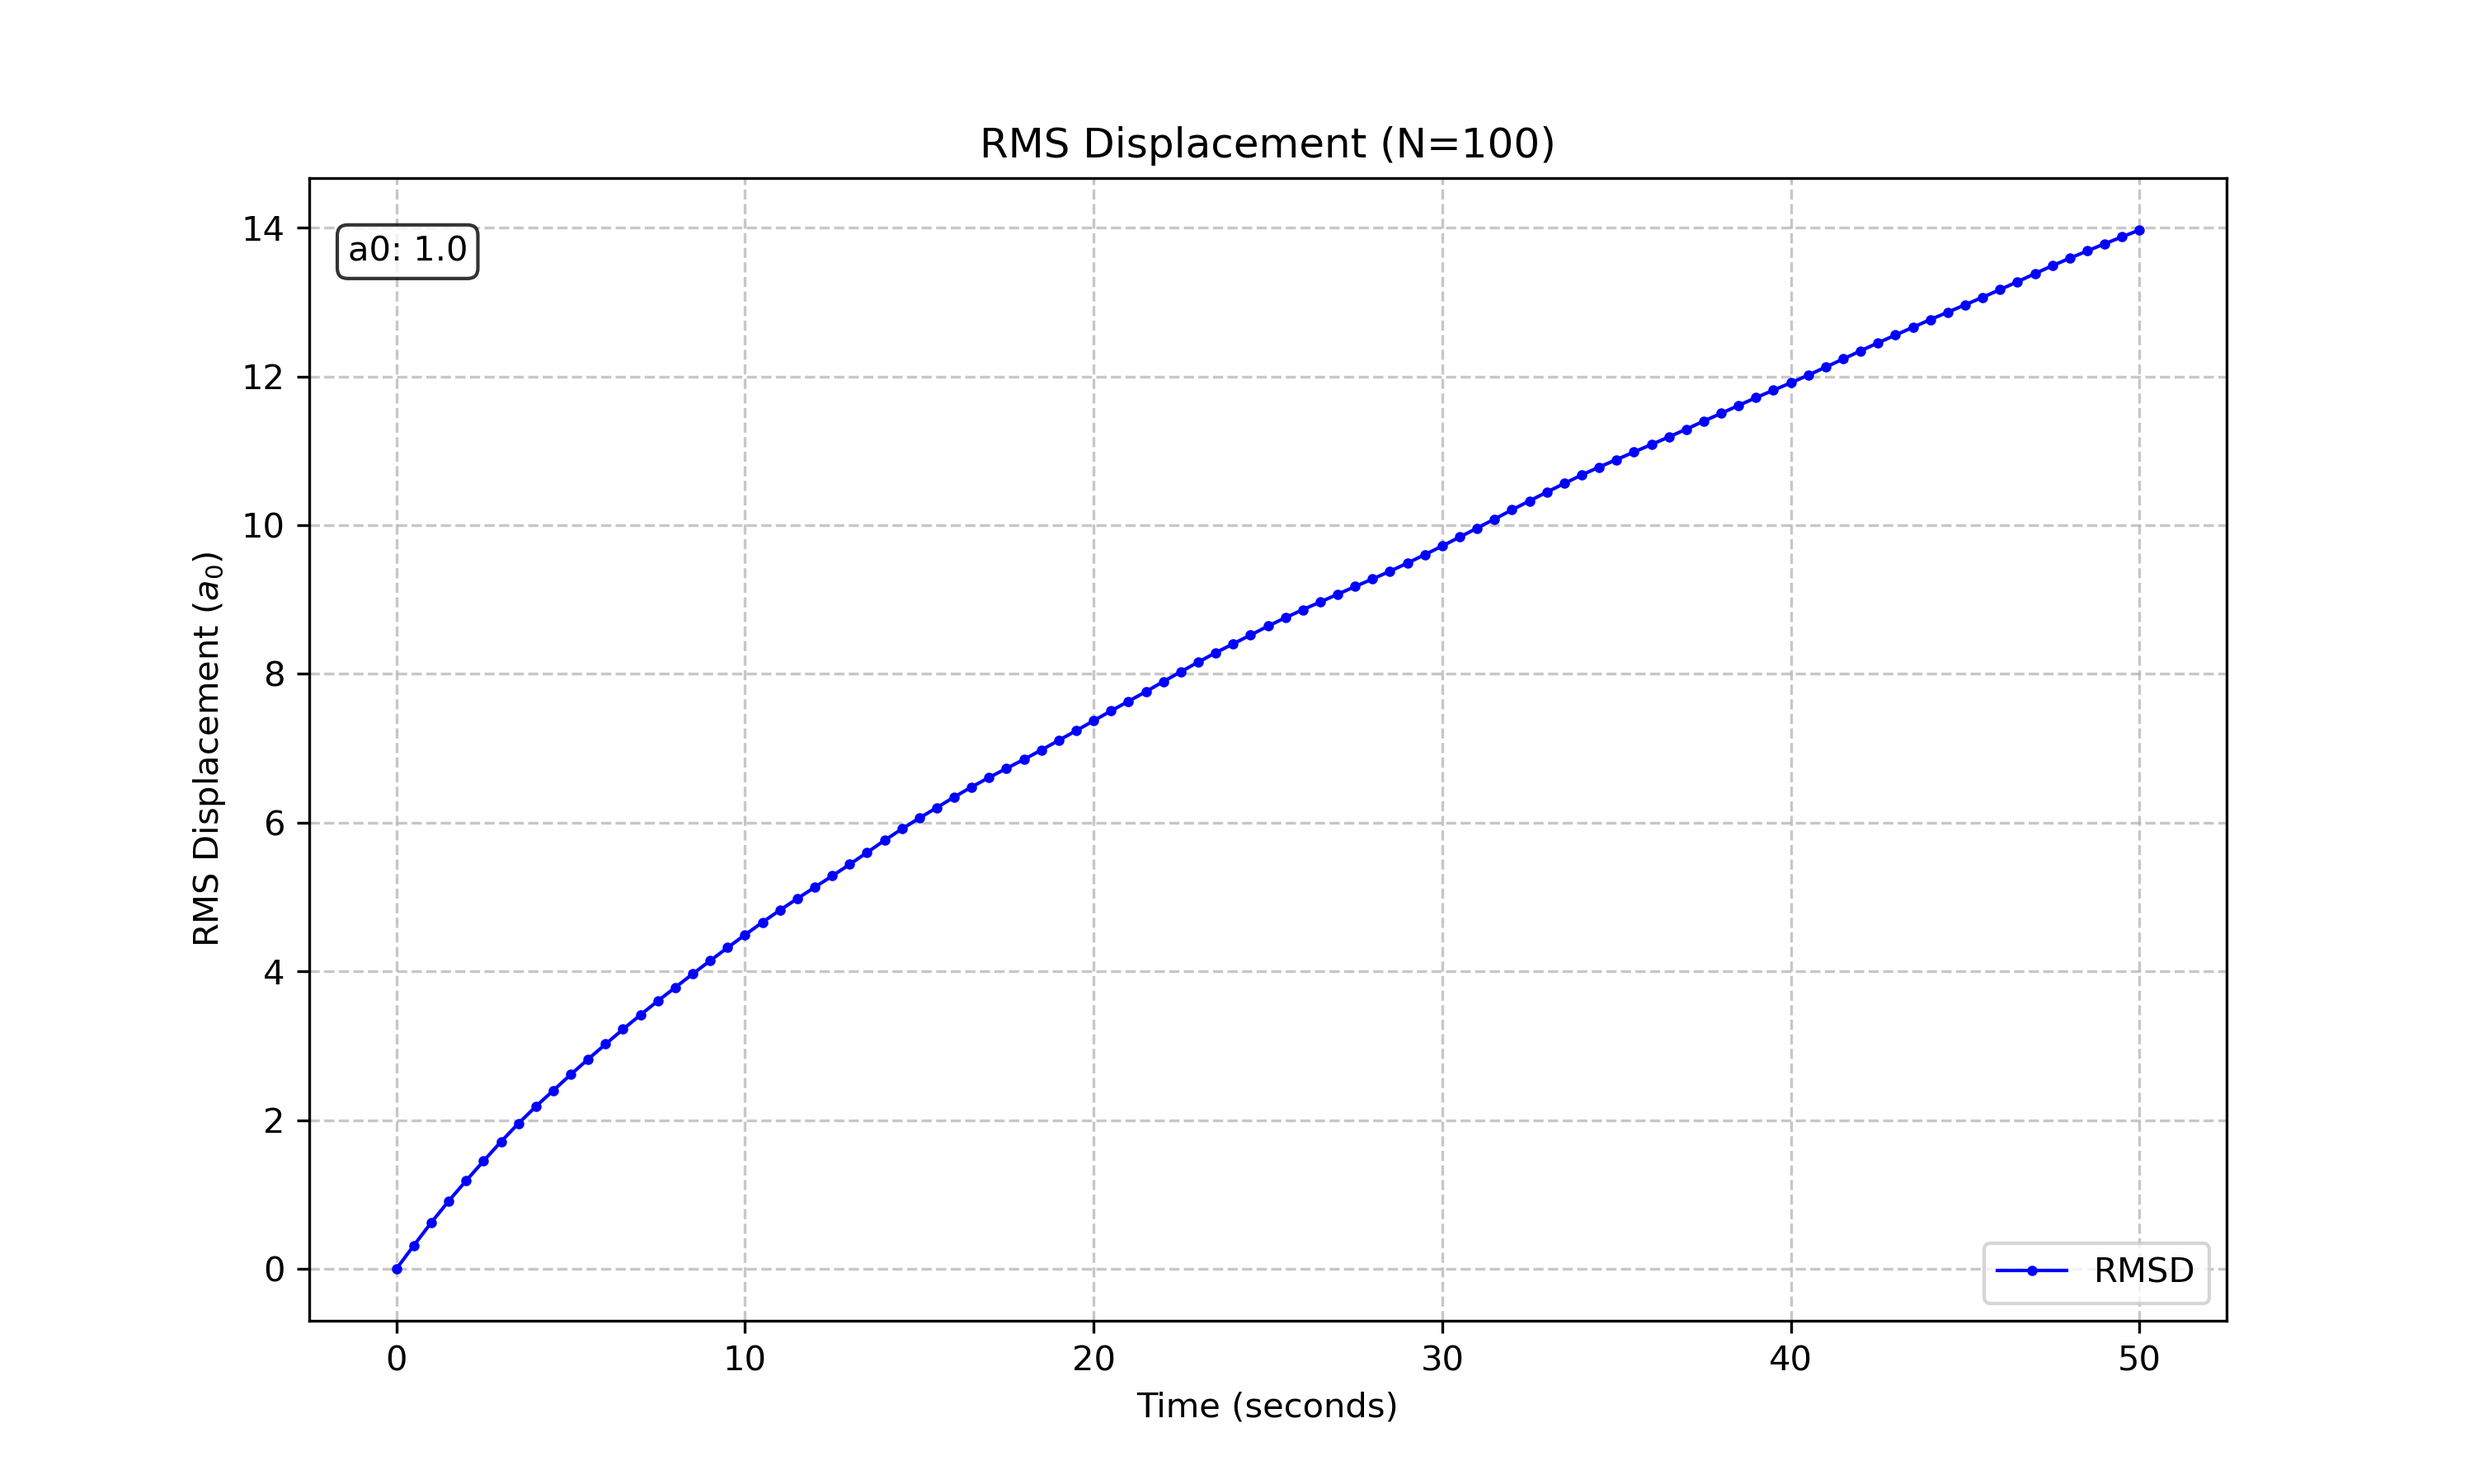
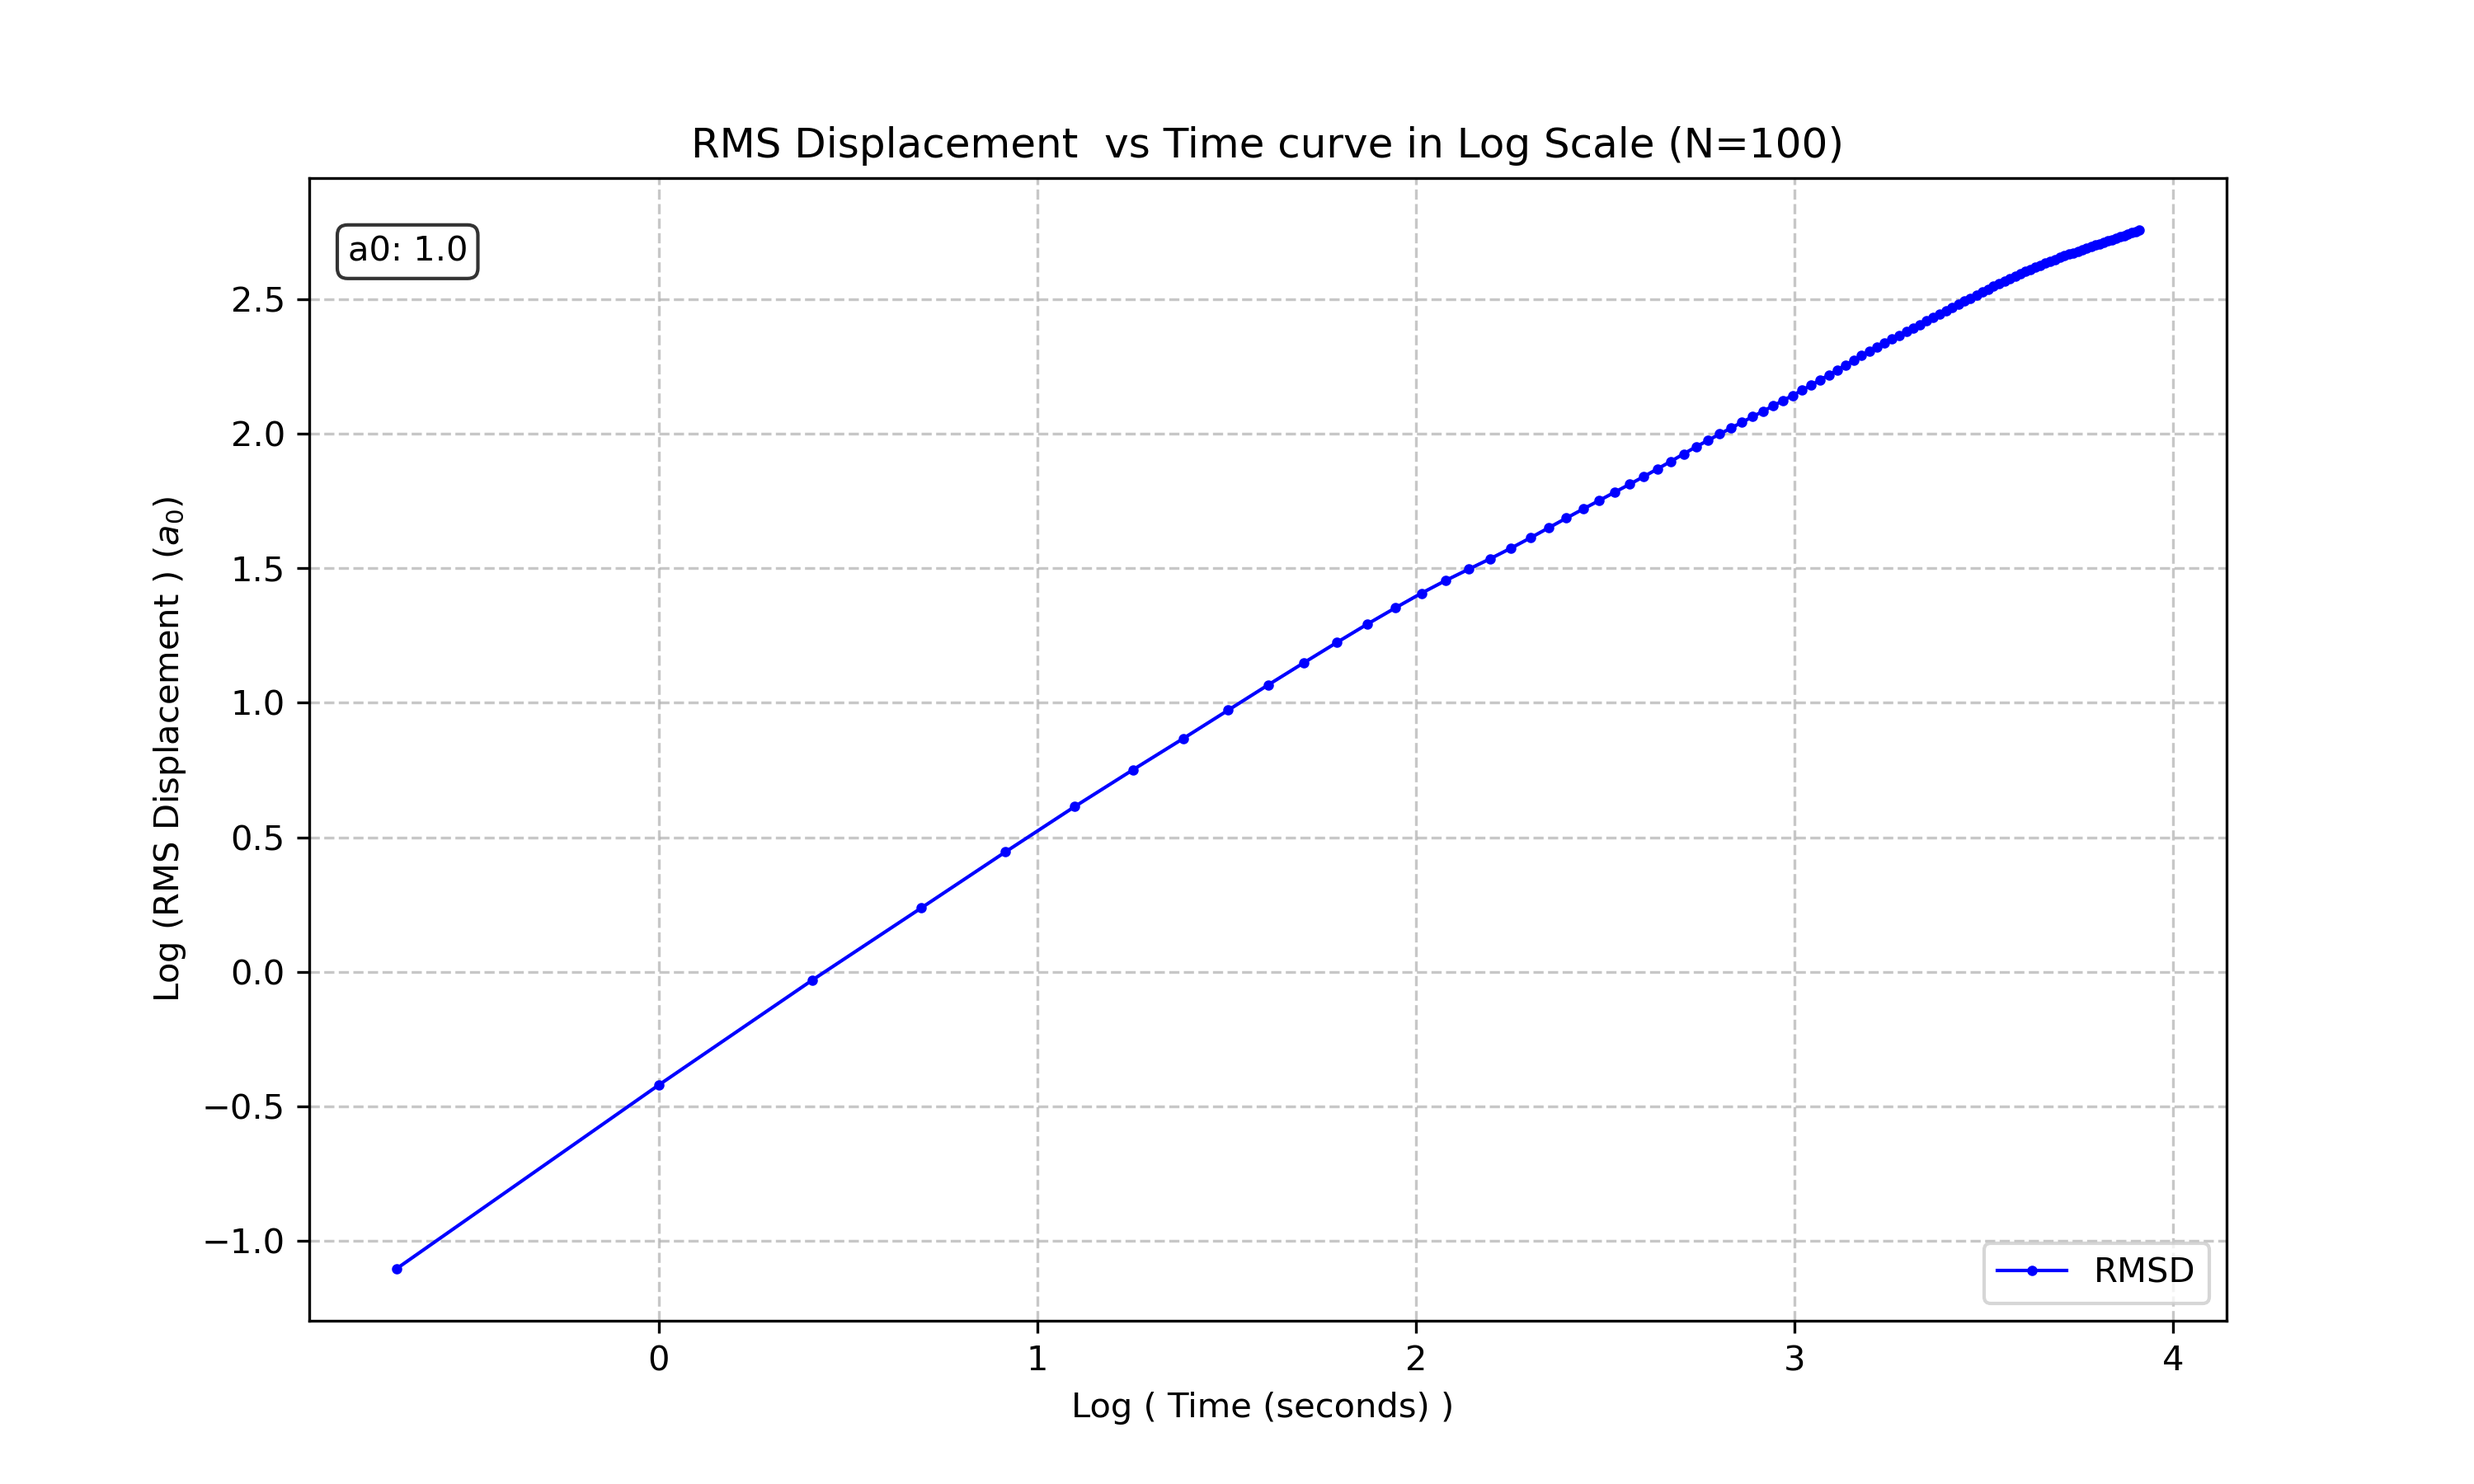
Plot - rms in log scale

diff --git a/plot_rms_from_data.py b/plot_rms_from_data.py
@@ -18,7 +18,7 @@ def read_frame_file(filepath):
             lines = f.readlines()
         for line in lines:
             parts = line.split()
-            if len(parts) == 2:
+            if len(parts) == 8:
                 x, y = float(parts[0]), float(parts[1])
                 current_swimmer.append((x, y))
             elif not parts and current_swimmer:
@@ -81,17 +81,16 @@ def main():
         rms_distances.append(rms)
 
     plt.figure(figsize=(10, 6))
-    plt.plot(times, rms_distances, 'b.-', linewidth=1, markersize=4, label='RMSD')
-    plt.xlabel('Time (seconds)')
-    plt.ylabel('RMS Displacement ($a_0$)')
-    plt.title(f'RMS Displacement (N={num_swimmers})')
+    plt.plot(np.log(times), np.log(rms_distances), 'b.-', linewidth=1, markersize=4, label='RMSD')
+    plt.xlabel('Log ( Time (seconds) ) ')
+    plt.ylabel('Log (RMS Displacement ) ($a_0$)')
+    plt.title(f'RMS Displacement  vs Time curve in Log Scale (N={num_swimmers})')
     plt.grid(True, linestyle='--', alpha=0.7)
     plt.legend()
     plt.text(0.02, 0.95, f"a0: 1.0", transform=plt.gca().transAxes, 
              fontsize=10, verticalalignment='top', bbox=dict(boxstyle='round', facecolor='white', alpha=0.8))
 
     plt.savefig("rms_plot_from_data.png", dpi=300)
-    plt.show()
 
 if __name__ == "__main__":
     main()
